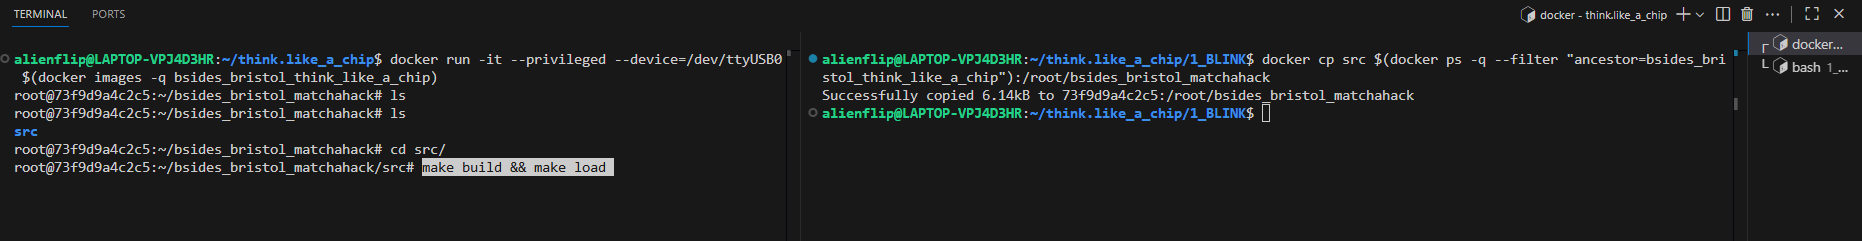
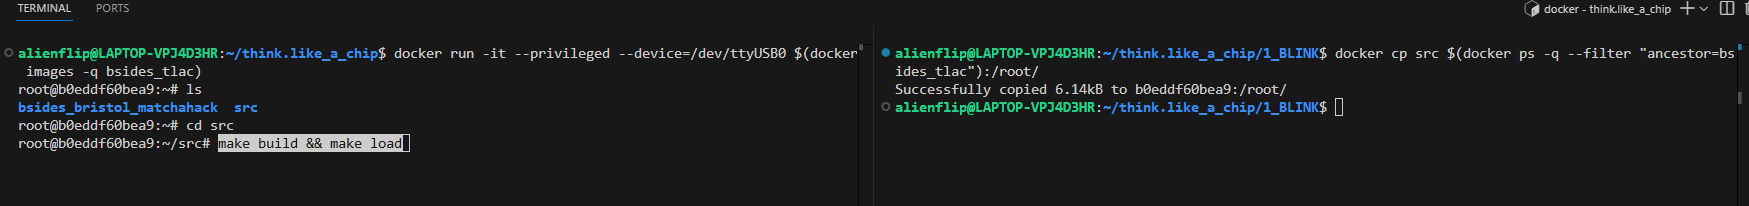
further streamline docker build process

diff --git a/0_GETTING_STARTED/README.md b/0_GETTING_STARTED/README.md
@@ -58,12 +58,12 @@ ls /dev/ttyUSB*
 1. To build your docker image, run the following in your `wsl` terminal:
 ```
 cd /home/$USER/think.like_a_chip/
-docker build --no-cache -t bsides_bristol_think_like_a_chip .
+docker build --no-cache -t bsides_tlac .
 ```
 
-2. To spin-up your docker container in order to build FPGA Bitstreams, run the following in your:
+2. To spin-up your docker container in order to build FPGA Bitstreams, run the following in your `wsl` terminal:
 ```
-docker run -it --privileged --device=/dev/ttyUSB0 $(docker images -q bsides_bristol_think_like_a_chip)
+docker run -it --privileged --device=/dev/ttyUSB0 $(docker images -q bsides_tlac)
 ```
 
 ## Build and test a bitstream

diff --git a/2_ERROR/README.md b/2_ERROR/README.md
@@ -9,13 +9,13 @@
 > [!TIP]
 > Run the following from your terminal to build and load the design to your FPGA:
 
-> Copy files to container
+> Run the following from `wsl` to copy the source files to your container:
 ```
 docker ps
-docker cp src <CONTAINER_ID>:/root/
+docker cp src $(docker ps -q --filter "ancestor=bsides_tlac"):/root/
 ```
 
-> run in container
+> Now in your container, run the following to program the FPGA:
 ```
 cd src 
 make build && make load

diff --git a/1_BLINK/README.md b/1_BLINK/README.md
@@ -11,7 +11,7 @@
 > Run the following from `wsl` to copy the source files to your container:
 ```
 cd /home/$USER/think.like_a_chip/1_BLINK/
-docker cp src $(docker ps -q --filter "ancestor=bsides_bristol_think_like_a_chip"):/root/bsides_bristol_matchahack
+docker cp src $(docker ps -q --filter "ancestor=bsides_tlac"):/root/
 ```
 
 > Now in your container, run the following to program the FPGA:
